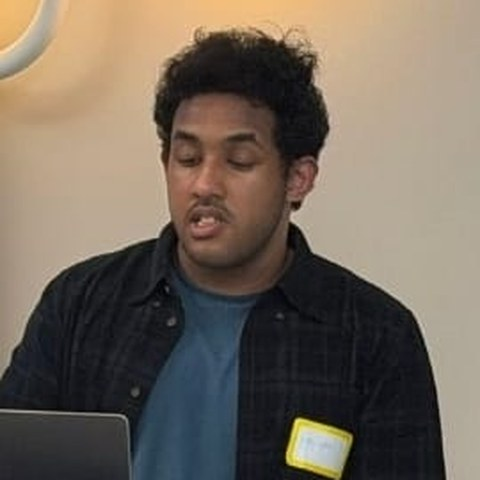
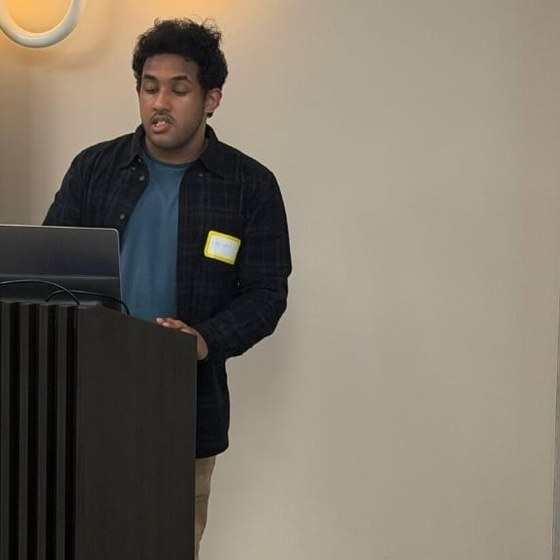
Fixed salary wording; replace QA role with social media and video editor intern; wider founder photo
Claude-Session: https://claude.ai/code/session_01Ci3Hk6r4uemHiuYjcjiNNH

diff --git a/job-social-media-video-editor-intern.html b/job-social-media-video-editor-intern.html
@@ -3,16 +3,16 @@
 <head>
 <meta charset="utf-8">
 <meta name="viewport" content="width=device-width, initial-scale=1">
-<title>QA and Test Automation Engineer Intern, fully remote | Sheerwater Consulting</title>
-<meta name="description" content="Check our products and client deliveries before anyone else sees them. Fully remote internship with Sheerwater Consulting. Salary negotiable.">
-<link rel="canonical" href="https://sheerwaterconsulting.co.uk/job-qa-test-engineer-intern.html">
+<title>Social Media and Video Editor Intern, fully remote | Sheerwater Consulting</title>
+<meta name="description" content="Shape how Sheerwater Consulting looks and sounds online, with short videos, posts and campaigns. Fully remote internship with Sheerwater Consulting. Fixed salary.">
+<link rel="canonical" href="https://sheerwaterconsulting.co.uk/job-social-media-video-editor-intern.html">
 <meta name="theme-color" content="#001119">
 <meta name="color-scheme" content="dark">
 <meta property="og:type" content="website">
 <meta property="og:site_name" content="Sheerwater Consulting">
-<meta property="og:title" content="QA and Test Automation Engineer Intern, fully remote | Sheerwater Consulting">
-<meta property="og:description" content="Check our products and client deliveries before anyone else sees them. Fully remote internship with Sheerwater Consulting. Salary negotiable.">
-<meta property="og:url" content="https://sheerwaterconsulting.co.uk/job-qa-test-engineer-intern.html">
+<meta property="og:title" content="Social Media and Video Editor Intern, fully remote | Sheerwater Consulting">
+<meta property="og:description" content="Shape how Sheerwater Consulting looks and sounds online, with short videos, posts and campaigns. Fully remote internship with Sheerwater Consulting. Fixed salary.">
+<meta property="og:url" content="https://sheerwaterconsulting.co.uk/job-social-media-video-editor-intern.html">
 <meta property="og:image" content="https://sheerwaterconsulting.co.uk/assets/og.png">
 <meta property="og:image:width" content="1200">
 <meta property="og:image:height" content="630">
@@ -49,14 +49,14 @@
 <section class="page-hero">
   <div class="wrap">
     <p class="crumb"><a href="careers.html#roles">&larr; All roles</a></p>
-    <h1>QA and Test Automation Engineer Intern</h1>
-    <p class="lede">Check our products and client deliveries before anyone else sees them.</p>
+    <h1>Social Media and Video Editor Intern</h1>
+    <p class="lede">Shape how Sheerwater Consulting looks and sounds online, with short videos, posts and campaigns.</p>
     <ul class="role-facts" aria-label="Role details">
       <li><span>Type</span>Internship</li>
       <li><span>Location</span>Fully remote</li>
-      <li><span>Salary</span>Negotiable</li>
+      <li><span>Salary</span>Fixed</li>
     </ul>
-    <div class="btn-row"><a class="btn btn-primary" href="apply.html?role=qa-test-engineer-intern">Apply for this role</a></div>
+    <div class="btn-row"><a class="btn btn-primary" href="apply.html?role=social-media-video-editor-intern">Apply for this role</a></div>
   </div>
 </section>
 
@@ -65,41 +65,42 @@
     <div class="role-body">
       <div class="role-wide">
         <h2>About the role</h2>
-        <p>Quality is how we earn trust. You will test what the team builds, automate the checks that matter and report problems so clearly that they are easy to fix. It is a strong starting role if you like finding things that others miss.</p>
+        <p>Help us tell the story of our work and our products. You will plan, shoot, edit and publish content for LinkedIn and other channels, turning technical projects into short, clear and engaging pieces that people want to watch and share.</p>
       </div>
       <div>
         <h3>What you would work on</h3>
         <ul>
-          <li>Write and run test cases for web, mobile and API features</li>
-          <li>Automate repeated checks with tools such as Playwright, Selenium or Postman</li>
-          <li>Test infrastructure changes in a staging environment</li>
-          <li>Log defects with clear steps to reproduce them</li>
-          <li>Check fixes and run a release checklist before delivery</li>
-          <li>Keep a simple, current test plan for each project</li>
+          <li>Edit short videos, demos and clips for LinkedIn, YouTube and other social channels</li>
+          <li>Plan and schedule a regular calendar of posts, and write clear, friendly captions</li>
+          <li>Turn technical project updates and screen recordings into simple, engaging stories</li>
+          <li>Add subtitles, graphics and our brand look to every piece</li>
+          <li>Track what performs well and suggest what to make next</li>
+          <li>Help produce launch announcements and recruitment posts</li>
         </ul>
       </div>
       <div>
         <h3>Requirements</h3>
         <ul>
-          <li>Minimum: a completed bachelor's degree (or final-year student finishing within six months) in computer science, IT, engineering or a related field</li>
-          <li>Good fluency in written and spoken English, since clear bug reports matter</li>
-          <li>Basic programming in Python or JavaScript</li>
-          <li>Understanding of how websites and APIs work</li>
-          <li>Strong attention to detail and a patient, methodical approach</li>
-          <li>Understanding of Git</li>
-          <li>Willing to explore new, fun challenges, including breaking things on purpose</li>
-          <li>Honest and constructive when reporting problems</li>
+          <li>Minimum: a completed bachelor's degree (or final-year student finishing within six months) in media, marketing, communications, design, computer science or a related field, or an equivalent portfolio</li>
+          <li>Good fluency in written and spoken English, as most captions and scripts are in English</li>
+          <li>A portfolio or sample reel of at least two videos or social campaigns; student and personal work counts</li>
+          <li>Skill with a video editor such as Premiere Pro, DaVinci Resolve, Final Cut or CapCut</li>
+          <li>Good eye for pacing, sound, text and simple motion graphics</li>
+          <li>Comfortable with Canva or Figma for thumbnails and post graphics</li>
+          <li>Willing to explore new, fun challenges and try new formats and trends</li>
+          <li>Reliable with deadlines and happy to take feedback</li>
         </ul>
         <h3 class="role-sub">Nice to have</h3>
         <ul>
-          <li>Experience with Playwright, Selenium, Cypress or Postman</li>
-          <li>Knowledge of software testing concepts (ISTQB or similar)</li>
-          <li>Basic knowledge of performance or security testing</li>
+          <li>Experience growing a social media account or running a page</li>
+          <li>Basic understanding of social media analytics and scheduling tools</li>
+          <li>Interest in technology, cloud or AI, and the ability to explain it simply</li>
+          <li>Basic photography, audio or motion-graphics skills (After Effects or similar)</li>
         </ul>
       </div>
       <div class="role-wide">
         <h3>How we assess</h3>
-        <p>A paid task: test a sample website, report defects clearly and automate three checks. Every trial task is paid.</p>
+        <p>A paid task: edit a 30 to 60 second video from supplied footage, with subtitles and a caption. Every trial task is paid.</p>
       </div>
     </div>
   </div>
@@ -116,7 +117,7 @@
       <li><h3>Paid trial task</h3><p>A small, real task with a written brief. You are paid for it.</p></li>
       <li><h3>Offer</h3><p>A written agreement covering the work, salary, confidentiality and ownership of what you build.</p></li>
     </ol>
-    <div class="btn-row"><a class="btn btn-primary" href="apply.html?role=qa-test-engineer-intern">Apply for this role</a><a class="btn btn-quiet" href="careers.html#roles">See other roles</a></div>
+    <div class="btn-row"><a class="btn btn-primary" href="apply.html?role=social-media-video-editor-intern">Apply for this role</a><a class="btn btn-quiet" href="careers.html#roles">See other roles</a></div>
   </div>
 </section>
 

diff --git a/careers.html b/careers.html
@@ -4,14 +4,14 @@
 <meta charset="utf-8">
 <meta name="viewport" content="width=device-width, initial-scale=1">
 <title>Careers: work with Sheerwater Consulting | Sheerwater Consulting</title>
-<meta name="description" content="Fully remote internships for engineers and designers, plus a project manager role. Negotiable salary, a paid trial task and written contracts.">
+<meta name="description" content="Fully remote internships for engineers and designers, plus a project manager role. Fixed salary, a paid trial task and written contracts.">
 <link rel="canonical" href="https://sheerwaterconsulting.co.uk/careers.html">
 <meta name="theme-color" content="#001119">
 <meta name="color-scheme" content="dark">
 <meta property="og:type" content="website">
 <meta property="og:site_name" content="Sheerwater Consulting">
 <meta property="og:title" content="Careers: work with Sheerwater Consulting | Sheerwater Consulting">
-<meta property="og:description" content="Fully remote internships for engineers and designers, plus a project manager role. Negotiable salary, a paid trial task and written contracts.">
+<meta property="og:description" content="Fully remote internships for engineers and designers, plus a project manager role. Fixed salary, a paid trial task and written contracts.">
 <meta property="og:url" content="https://sheerwaterconsulting.co.uk/careers.html">
 <meta property="og:image" content="https://sheerwaterconsulting.co.uk/assets/og.png">
 <meta property="og:image:width" content="1200">
@@ -49,7 +49,7 @@
 <section class="page-hero">
   <div class="wrap">
     <h1>Build with us, one project at a time</h1>
-    <p class="lede">Fully remote internships for graduate engineers and designers, plus a project manager. Salary is negotiable, and every trial task is paid. Start dates follow signed projects, so register your interest and we contact you when one matches your skills.</p>
+    <p class="lede">Fully remote internships for graduate engineers, designers and creatives, plus a project manager. Salary is fixed, and every trial task is paid. Start dates follow signed projects, so register your interest and we contact you when one matches your skills.</p>
     <div class="btn-row">
       <a class="btn btn-primary" href="apply.html">Register your interest</a>
       <a class="btn btn-quiet" href="#roles">See roles</a>
@@ -81,34 +81,34 @@
     <div id="role-filter" class="chips" role="group" aria-label="Filter roles by area">
       <button type="button" class="chip" data-filter="all" aria-pressed="true">All roles</button>
       <button type="button" class="chip" data-filter="engineering" aria-pressed="false">Engineering</button>
-      <button type="button" class="chip" data-filter="design" aria-pressed="false">Design</button>
+      <button type="button" class="chip" data-filter="design" aria-pressed="false">Design and media</button>
       <button type="button" class="chip" data-filter="management" aria-pressed="false">Project management</button>
     </div>
     <p id="role-count" class="muted" aria-live="polite"></p>
     <ul class="pkg-list">
   <li class="job" data-group="management"><a class="pkg-row" href="job-project-manager.html">
     <div><h3>Project Manager</h3><p>Keep our remote engineering interns organised, on schedule and talking clearly with the UK.</p></div>
-    <div class="pkg-facts"><span class="pkg-price">Contract</span><span class="pkg-time">Fully remote, salary negotiable</span></div>
+    <div class="pkg-facts"><span class="pkg-price">Contract</span><span class="pkg-time">Fully remote, fixed salary</span></div>
   </a></li>
   <li class="job" data-group="engineering"><a class="pkg-row" href="job-devops-platform-engineer-intern.html">
     <div><h3>DevOps and Platform Engineer Intern</h3><p>Learn to build cloud, Kubernetes and automation for real client infrastructure projects.</p></div>
-    <div class="pkg-facts"><span class="pkg-price">Internship</span><span class="pkg-time">Fully remote, salary negotiable</span></div>
+    <div class="pkg-facts"><span class="pkg-price">Internship</span><span class="pkg-time">Fully remote, fixed salary</span></div>
   </a></li>
   <li class="job" data-group="engineering"><a class="pkg-row" href="job-ai-ml-engineer-intern.html">
     <div><h3>AI and Machine Learning Engineer Intern</h3><p>Help deploy private, self-hosted AI systems that run on a client's own servers.</p></div>
-    <div class="pkg-facts"><span class="pkg-price">Internship</span><span class="pkg-time">Fully remote, salary negotiable</span></div>
+    <div class="pkg-facts"><span class="pkg-price">Internship</span><span class="pkg-time">Fully remote, fixed salary</span></div>
   </a></li>
   <li class="job" data-group="engineering"><a class="pkg-row" href="job-full-stack-engineer-intern.html">
     <div><h3>Full-Stack Engineer Intern</h3><p>Build web and mobile products for our own studio products and for client projects.</p></div>
-    <div class="pkg-facts"><span class="pkg-price">Internship</span><span class="pkg-time">Fully remote, salary negotiable</span></div>
-  </a></li>
-  <li class="job" data-group="engineering"><a class="pkg-row" href="job-qa-test-engineer-intern.html">
-    <div><h3>QA and Test Automation Engineer Intern</h3><p>Check our products and client deliveries before anyone else sees them.</p></div>
-    <div class="pkg-facts"><span class="pkg-price">Internship</span><span class="pkg-time">Fully remote, salary negotiable</span></div>
+    <div class="pkg-facts"><span class="pkg-price">Internship</span><span class="pkg-time">Fully remote, fixed salary</span></div>
   </a></li>
   <li class="job" data-group="design"><a class="pkg-row" href="job-ui-ux-designer-intern.html">
     <div><h3>UI and UX Designer Intern</h3><p>Design clear, accessible interfaces for mobile and web products.</p></div>
-    <div class="pkg-facts"><span class="pkg-price">Internship</span><span class="pkg-time">Fully remote, salary negotiable</span></div>
+    <div class="pkg-facts"><span class="pkg-price">Internship</span><span class="pkg-time">Fully remote, fixed salary</span></div>
+  </a></li>
+  <li class="job" data-group="design"><a class="pkg-row" href="job-social-media-video-editor-intern.html">
+    <div><h3>Social Media and Video Editor Intern</h3><p>Shape how Sheerwater Consulting looks and sounds online, with short videos, posts and campaigns.</p></div>
+    <div class="pkg-facts"><span class="pkg-price">Internship</span><span class="pkg-time">Fully remote, fixed salary</span></div>
   </a></li>
 </ul>
   </div>
@@ -119,7 +119,7 @@
     <div>
       <h2>Terms for everyone</h2>
       <ul>
-        <li>Salary is negotiable, agreed up front and paid on time</li>
+        <li>Salary is fixed, agreed up front and paid on time</li>
         <li>Fully remote, with good written and spoken English for daily work</li>
         <li>At least two hours of overlap with the UK working morning, for the daily stand-up</li>
         <li>A written contract, a confidentiality agreement and a clear statement of who owns the work</li>

diff --git a/_source/pages/careers.html b/_source/pages/careers.html
@@ -1,8 +1,8 @@
-<!--meta {"title":"Careers: work with Sheerwater Consulting","description":"Fully remote internships for engineers and designers, plus a project manager role. Negotiable salary, a paid trial task and written contracts.","key":"careers"} -->
+<!--meta {"title":"Careers: work with Sheerwater Consulting","description":"Fully remote internships for engineers and designers, plus a project manager role. Fixed salary, a paid trial task and written contracts.","key":"careers"} -->
 <section class="page-hero">
   <div class="wrap">
     <h1>Build with us, one project at a time</h1>
-    <p class="lede">Fully remote internships for graduate engineers and designers, plus a project manager. Salary is negotiable, and every trial task is paid. Start dates follow signed projects, so register your interest and we contact you when one matches your skills.</p>
+    <p class="lede">Fully remote internships for graduate engineers, designers and creatives, plus a project manager. Salary is fixed, and every trial task is paid. Start dates follow signed projects, so register your interest and we contact you when one matches your skills.</p>
     <div class="btn-row">
       <a class="btn btn-primary" href="apply.html">Register your interest</a>
       <a class="btn btn-quiet" href="#roles">See roles</a>
@@ -34,7 +34,7 @@
     <div id="role-filter" class="chips" role="group" aria-label="Filter roles by area">
       <button type="button" class="chip" data-filter="all" aria-pressed="true">All roles</button>
       <button type="button" class="chip" data-filter="engineering" aria-pressed="false">Engineering</button>
-      <button type="button" class="chip" data-filter="design" aria-pressed="false">Design</button>
+      <button type="button" class="chip" data-filter="design" aria-pressed="false">Design and media</button>
       <button type="button" class="chip" data-filter="management" aria-pressed="false">Project management</button>
     </div>
     <p id="role-count" class="muted" aria-live="polite"></p>
@@ -47,7 +47,7 @@
     <div>
       <h2>Terms for everyone</h2>
       <ul>
-        <li>Salary is negotiable, agreed up front and paid on time</li>
+        <li>Salary is fixed, agreed up front and paid on time</li>
         <li>Fully remote, with good written and spoken English for daily work</li>
         <li>At least two hours of overlap with the UK working morning, for the daily stand-up</li>
         <li>A written contract, a confidentiality agreement and a clear statement of who owns the work</li>

diff --git a/job-devops-platform-engineer-intern.html b/job-devops-platform-engineer-intern.html
@@ -4,14 +4,14 @@
 <meta charset="utf-8">
 <meta name="viewport" content="width=device-width, initial-scale=1">
 <title>DevOps and Platform Engineer Intern, fully remote | Sheerwater Consulting</title>
-<meta name="description" content="Learn to build cloud, Kubernetes and automation for real client infrastructure projects. Fully remote internship with Sheerwater Consulting. Salary negotiable.">
+<meta name="description" content="Learn to build cloud, Kubernetes and automation for real client infrastructure projects. Fully remote internship with Sheerwater Consulting. Fixed salary.">
 <link rel="canonical" href="https://sheerwaterconsulting.co.uk/job-devops-platform-engineer-intern.html">
 <meta name="theme-color" content="#001119">
 <meta name="color-scheme" content="dark">
 <meta property="og:type" content="website">
 <meta property="og:site_name" content="Sheerwater Consulting">
 <meta property="og:title" content="DevOps and Platform Engineer Intern, fully remote | Sheerwater Consulting">
-<meta property="og:description" content="Learn to build cloud, Kubernetes and automation for real client infrastructure projects. Fully remote internship with Sheerwater Consulting. Salary negotiable.">
+<meta property="og:description" content="Learn to build cloud, Kubernetes and automation for real client infrastructure projects. Fully remote internship with Sheerwater Consulting. Fixed salary.">
 <meta property="og:url" content="https://sheerwaterconsulting.co.uk/job-devops-platform-engineer-intern.html">
 <meta property="og:image" content="https://sheerwaterconsulting.co.uk/assets/og.png">
 <meta property="og:image:width" content="1200">
@@ -54,7 +54,7 @@
     <ul class="role-facts" aria-label="Role details">
       <li><span>Type</span>Internship</li>
       <li><span>Location</span>Fully remote</li>
-      <li><span>Salary</span>Negotiable</li>
+      <li><span>Salary</span>Fixed</li>
     </ul>
     <div class="btn-row"><a class="btn btn-primary" href="apply.html?role=devops-platform-engineer-intern">Apply for this role</a></div>
   </div>

diff --git a/job-full-stack-engineer-intern.html b/job-full-stack-engineer-intern.html
@@ -4,14 +4,14 @@
 <meta charset="utf-8">
 <meta name="viewport" content="width=device-width, initial-scale=1">
 <title>Full-Stack Engineer Intern, fully remote | Sheerwater Consulting</title>
-<meta name="description" content="Build web and mobile products for our own studio products and for client projects. Fully remote internship with Sheerwater Consulting. Salary negotiable.">
+<meta name="description" content="Build web and mobile products for our own studio products and for client projects. Fully remote internship with Sheerwater Consulting. Fixed salary.">
 <link rel="canonical" href="https://sheerwaterconsulting.co.uk/job-full-stack-engineer-intern.html">
 <meta name="theme-color" content="#001119">
 <meta name="color-scheme" content="dark">
 <meta property="og:type" content="website">
 <meta property="og:site_name" content="Sheerwater Consulting">
 <meta property="og:title" content="Full-Stack Engineer Intern, fully remote | Sheerwater Consulting">
-<meta property="og:description" content="Build web and mobile products for our own studio products and for client projects. Fully remote internship with Sheerwater Consulting. Salary negotiable.">
+<meta property="og:description" content="Build web and mobile products for our own studio products and for client projects. Fully remote internship with Sheerwater Consulting. Fixed salary.">
 <meta property="og:url" content="https://sheerwaterconsulting.co.uk/job-full-stack-engineer-intern.html">
 <meta property="og:image" content="https://sheerwaterconsulting.co.uk/assets/og.png">
 <meta property="og:image:width" content="1200">
@@ -54,7 +54,7 @@
     <ul class="role-facts" aria-label="Role details">
       <li><span>Type</span>Internship</li>
       <li><span>Location</span>Fully remote</li>
-      <li><span>Salary</span>Negotiable</li>
+      <li><span>Salary</span>Fixed</li>
     </ul>
     <div class="btn-row"><a class="btn btn-primary" href="apply.html?role=full-stack-engineer-intern">Apply for this role</a></div>
   </div>

diff --git a/job-ai-ml-engineer-intern.html b/job-ai-ml-engineer-intern.html
@@ -4,14 +4,14 @@
 <meta charset="utf-8">
 <meta name="viewport" content="width=device-width, initial-scale=1">
 <title>AI and Machine Learning Engineer Intern, fully remote | Sheerwater Consulting</title>
-<meta name="description" content="Help deploy private, self-hosted AI systems that run on a client's own servers. Fully remote internship with Sheerwater Consulting. Salary negotiable.">
+<meta name="description" content="Help deploy private, self-hosted AI systems that run on a client's own servers. Fully remote internship with Sheerwater Consulting. Fixed salary.">
 <link rel="canonical" href="https://sheerwaterconsulting.co.uk/job-ai-ml-engineer-intern.html">
 <meta name="theme-color" content="#001119">
 <meta name="color-scheme" content="dark">
 <meta property="og:type" content="website">
 <meta property="og:site_name" content="Sheerwater Consulting">
 <meta property="og:title" content="AI and Machine Learning Engineer Intern, fully remote | Sheerwater Consulting">
-<meta property="og:description" content="Help deploy private, self-hosted AI systems that run on a client's own servers. Fully remote internship with Sheerwater Consulting. Salary negotiable.">
+<meta property="og:description" content="Help deploy private, self-hosted AI systems that run on a client's own servers. Fully remote internship with Sheerwater Consulting. Fixed salary.">
 <meta property="og:url" content="https://sheerwaterconsulting.co.uk/job-ai-ml-engineer-intern.html">
 <meta property="og:image" content="https://sheerwaterconsulting.co.uk/assets/og.png">
 <meta property="og:image:width" content="1200">
@@ -54,7 +54,7 @@
     <ul class="role-facts" aria-label="Role details">
       <li><span>Type</span>Internship</li>
       <li><span>Location</span>Fully remote</li>
-      <li><span>Salary</span>Negotiable</li>
+      <li><span>Salary</span>Fixed</li>
     </ul>
     <div class="btn-row"><a class="btn btn-primary" href="apply.html?role=ai-ml-engineer-intern">Apply for this role</a></div>
   </div>

diff --git a/job-project-manager.html b/job-project-manager.html
@@ -4,14 +4,14 @@
 <meta charset="utf-8">
 <meta name="viewport" content="width=device-width, initial-scale=1">
 <title>Project Manager, fully remote | Sheerwater Consulting</title>
-<meta name="description" content="Keep our remote engineering interns organised, on schedule and talking clearly with the UK. Fully remote contract with Sheerwater Consulting. Salary negotiable.">
+<meta name="description" content="Keep our remote engineering interns organised, on schedule and talking clearly with the UK. Fully remote contract with Sheerwater Consulting. Fixed salary.">
 <link rel="canonical" href="https://sheerwaterconsulting.co.uk/job-project-manager.html">
 <meta name="theme-color" content="#001119">
 <meta name="color-scheme" content="dark">
 <meta property="og:type" content="website">
 <meta property="og:site_name" content="Sheerwater Consulting">
 <meta property="og:title" content="Project Manager, fully remote | Sheerwater Consulting">
-<meta property="og:description" content="Keep our remote engineering interns organised, on schedule and talking clearly with the UK. Fully remote contract with Sheerwater Consulting. Salary negotiable.">
+<meta property="og:description" content="Keep our remote engineering interns organised, on schedule and talking clearly with the UK. Fully remote contract with Sheerwater Consulting. Fixed salary.">
 <meta property="og:url" content="https://sheerwaterconsulting.co.uk/job-project-manager.html">
 <meta property="og:image" content="https://sheerwaterconsulting.co.uk/assets/og.png">
 <meta property="og:image:width" content="1200">
@@ -54,7 +54,7 @@
     <ul class="role-facts" aria-label="Role details">
       <li><span>Type</span>Contract</li>
       <li><span>Location</span>Fully remote</li>
-      <li><span>Salary</span>Negotiable</li>
+      <li><span>Salary</span>Fixed</li>
     </ul>
     <div class="btn-row"><a class="btn btn-primary" href="apply.html?role=project-manager">Apply for this role</a></div>
   </div>

diff --git a/job-ui-ux-designer-intern.html b/job-ui-ux-designer-intern.html
@@ -4,14 +4,14 @@
 <meta charset="utf-8">
 <meta name="viewport" content="width=device-width, initial-scale=1">
 <title>UI and UX Designer Intern, fully remote | Sheerwater Consulting</title>
-<meta name="description" content="Design clear, accessible interfaces for mobile and web products. Fully remote internship with Sheerwater Consulting. Salary negotiable.">
+<meta name="description" content="Design clear, accessible interfaces for mobile and web products. Fully remote internship with Sheerwater Consulting. Fixed salary.">
 <link rel="canonical" href="https://sheerwaterconsulting.co.uk/job-ui-ux-designer-intern.html">
 <meta name="theme-color" content="#001119">
 <meta name="color-scheme" content="dark">
 <meta property="og:type" content="website">
 <meta property="og:site_name" content="Sheerwater Consulting">
 <meta property="og:title" content="UI and UX Designer Intern, fully remote | Sheerwater Consulting">
-<meta property="og:description" content="Design clear, accessible interfaces for mobile and web products. Fully remote internship with Sheerwater Consulting. Salary negotiable.">
+<meta property="og:description" content="Design clear, accessible interfaces for mobile and web products. Fully remote internship with Sheerwater Consulting. Fixed salary.">
 <meta property="og:url" content="https://sheerwaterconsulting.co.uk/job-ui-ux-designer-intern.html">
 <meta property="og:image" content="https://sheerwaterconsulting.co.uk/assets/og.png">
 <meta property="og:image:width" content="1200">
@@ -54,7 +54,7 @@
     <ul class="role-facts" aria-label="Role details">
       <li><span>Type</span>Internship</li>
       <li><span>Location</span>Fully remote</li>
-      <li><span>Salary</span>Negotiable</li>
+      <li><span>Salary</span>Fixed</li>
     </ul>
     <div class="btn-row"><a class="btn btn-primary" href="apply.html?role=ui-ux-designer-intern">Apply for this role</a></div>
   </div>

diff --git a/apply.html b/apply.html
@@ -77,8 +77,8 @@
 <option value="devops-platform-engineer-intern">DevOps and Platform Engineer Intern</option>
 <option value="ai-ml-engineer-intern">AI and Machine Learning Engineer Intern</option>
 <option value="full-stack-engineer-intern">Full-Stack Engineer Intern</option>
-<option value="qa-test-engineer-intern">QA and Test Automation Engineer Intern</option>
 <option value="ui-ux-designer-intern">UI and UX Designer Intern</option>
+<option value="social-media-video-editor-intern">Social Media and Video Editor Intern</option>
 <option value="general">General interest, no specific role</option>
           </select>
         </div>
@@ -124,7 +124,7 @@
         <li>If a project matches your skills, we invite you to a thirty-minute call.</li>
         <li>If there is no match yet, we keep your details for future projects and tell you if that changes.</li>
       </ol>
-      <p class="muted">Salary is negotiable. There is no unpaid work, and any trial task is paid.</p>
+      <p class="muted">Salary is fixed. There is no unpaid work, and any trial task is paid.</p>
     </div>
   </div>
 </section>

diff --git a/_source/pages/apply.html b/_source/pages/apply.html
@@ -70,7 +70,7 @@
         <li>If a project matches your skills, we invite you to a thirty-minute call.</li>
         <li>If there is no match yet, we keep your details for future projects and tell you if that changes.</li>
       </ol>
-      <p class="muted">Salary is negotiable. There is no unpaid work, and any trial task is paid.</p>
+      <p class="muted">Salary is fixed. There is no unpaid work, and any trial task is paid.</p>
     </div>
   </div>
 </section>
